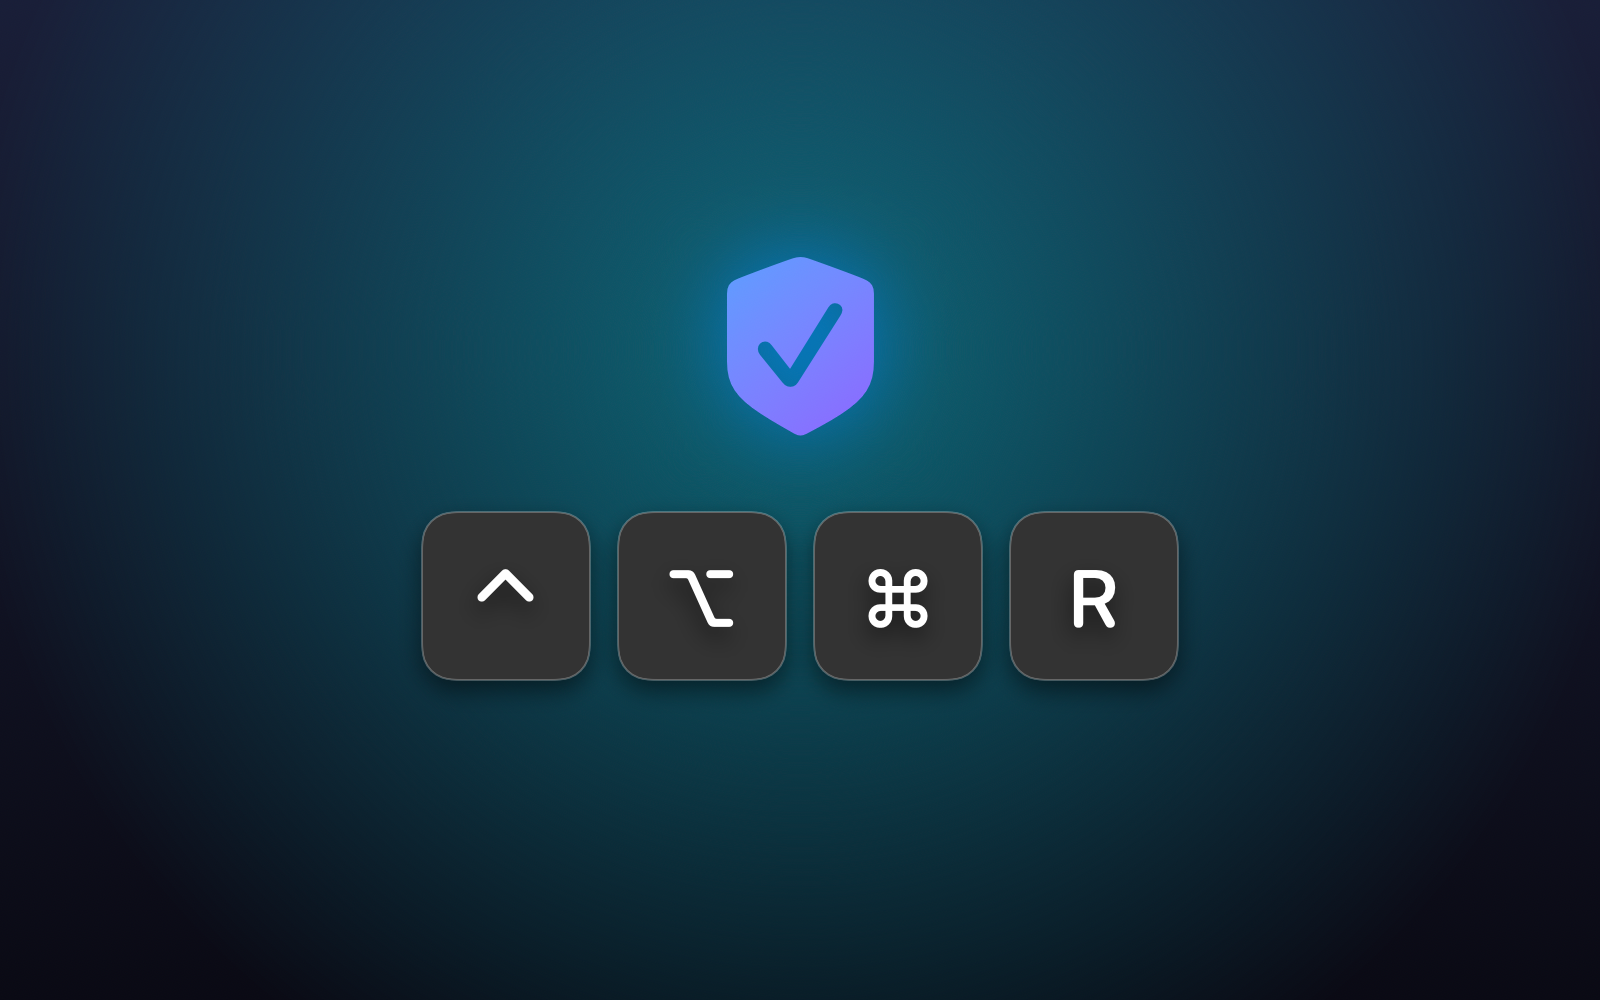
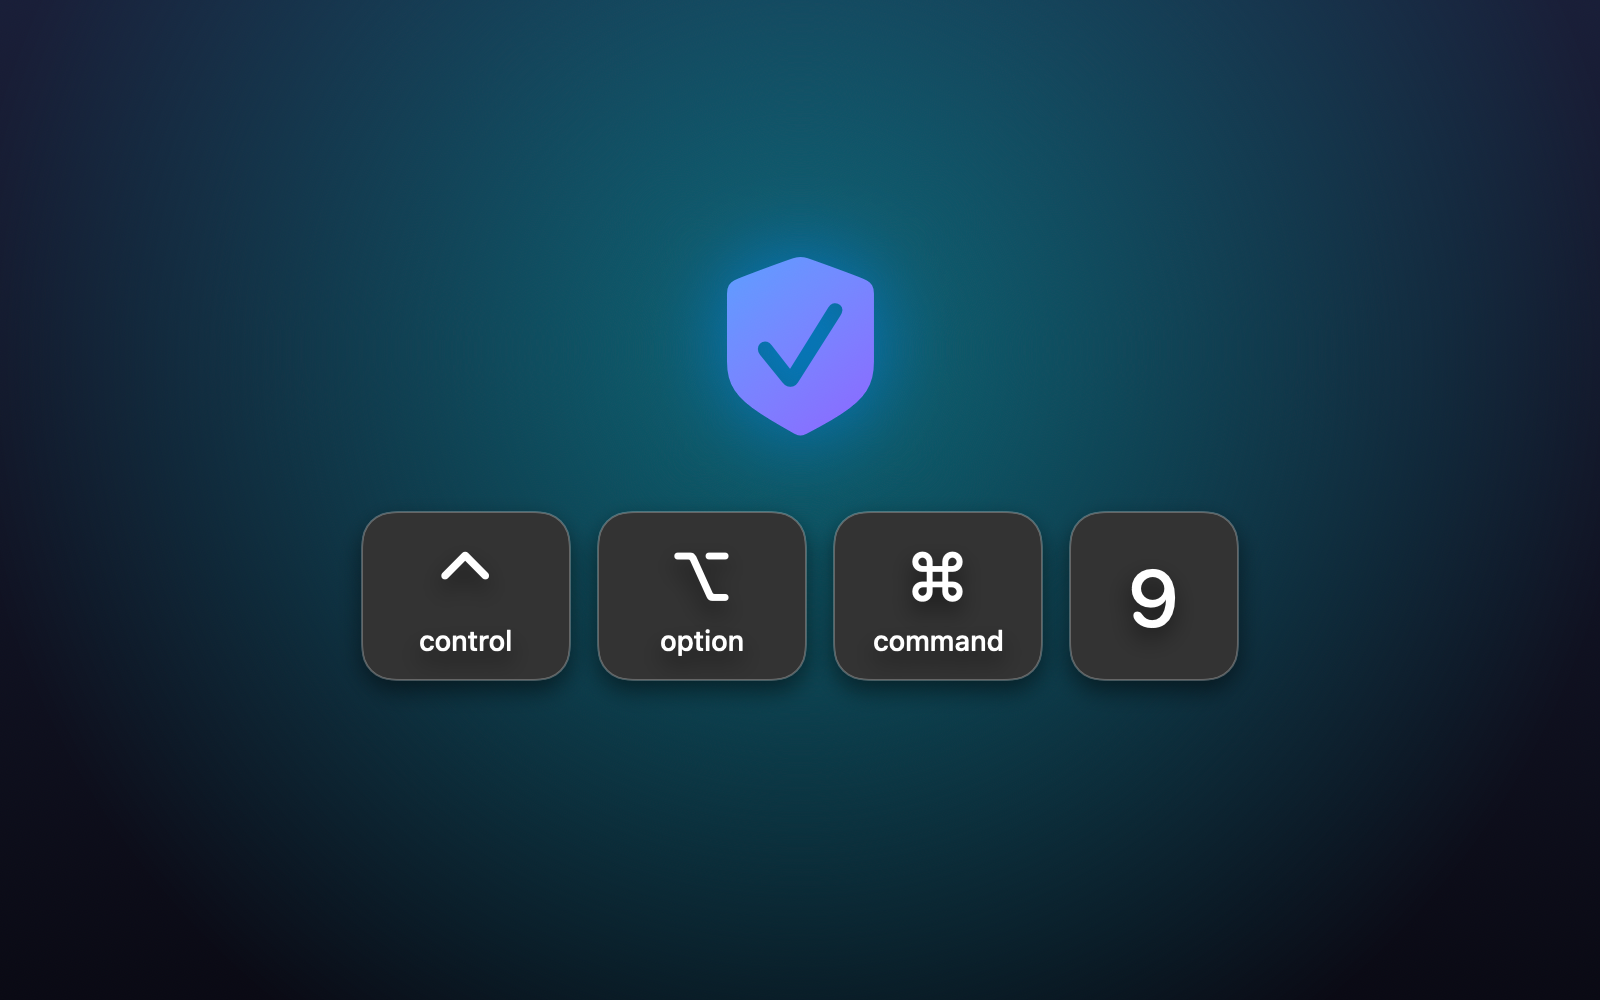
软件更名为 UU远程伴侣（UUyc companion）；兜底快捷键改为 ⌃ control + ⌥ option + ⌘ command + 9
需求：
1. 中文名改为「UU远程伴侣」，英文名改为「UUyc companion」
2. 恢复物理屏的快捷键改为 ⌃⌥⌘9，示意图只体现这 4 个键；界面上的快捷键说明都带英文键名，照顾新用户
实现：
- 打包为 UUyc companion.app，CFBundleName/DisplayName 为 UUyc companion，zh-Hans.lproj 本地化为「UU远程伴侣」；
  安装时删除旧的 /Applications/UUDisplay.app
- 界面中的「UU远程分辨率伴侣」「UUDisplay」统一改为「UU远程伴侣」；虚拟屏名称改为「UUyc companion · 设备名」
- 看门狗 LaunchAgent 加 AssociatedBundleIdentifiers，在「登录项与扩展」中归属到本 App 显示
- 内部标识不变：Bundle ID com.corndog.uudisplay（辅助功能授权据此识别）、可执行文件名、配置目录、日志文件名
- RegisterEventHotKey 改用 kVK_ANSI_9；兜底面板示意图改为四个键帽（带英文名）；菜单、提示、导览文案与配图同步
复现：scripts/build-app.sh --install 后，应用程序文件夹中为「UU远程伴侣」，辅助功能授权保留；
开启软关闭物理屏后按 ⌃⌥⌘9 立即恢复所有屏幕

Changed region(s): [[0.2188, 0.496, 0.7812, 0.682]]

diff --git a/Sources/UUDisplay/SettingsWindow.swift b/Sources/UUDisplay/SettingsWindow.swift
@@ -77,7 +77,7 @@ final class SettingsModel: ObservableObject {
         do {
             if on { try SMAppService.mainApp.register() } else { try SMAppService.mainApp.unregister() }
         } catch {
-            loginError = "设置失败：\(error.localizedDescription)。请把 UUDisplay.app 放在「应用程序」文件夹后再试。"
+            loginError = "设置失败：\(error.localizedDescription)。请把 UU远程伴侣 放在「应用程序」文件夹后再试。"
             Log.info("⚠ 开机启动设置失败：\(error.localizedDescription)")
         }
         launchAtLogin = SMAppService.mainApp.status == .enabled
@@ -113,7 +113,7 @@ final class SettingsModel: ObservableObject {
             attributes: [.font: NSFont.systemFont(ofSize: 11), .foregroundColor: NSColor.secondaryLabelColor])
         NSApp.activate(ignoringOtherApps: true)
         NSApp.orderFrontStandardAboutPanel(options: [
-            .applicationName: "UU远程分辨率伴侣",
+            .applicationName: "UU远程伴侣",
             .applicationVersion: version,
             .credits: credits,
         ])
@@ -127,69 +127,46 @@ final class SettingsModel: ObservableObject {
     }
 }
 
-// MARK: - 键盘示意图（Mac 键盘左半边，高亮 ⌃ ⌥ ⌘ R）
+// MARK: - 快捷键示意图（⌃ ⌥ ⌘ 9 四个键）
 
-private struct KeyCap: View {
-    let label: String
-    var sub: String? = nil
-    var width: CGFloat = 1
-    var height: CGFloat = 1
-    var highlighted = false
-    static let unit: CGFloat = 36
+private struct HotkeyCap: View {
+    let symbol: String
+    var name: String? = nil
 
     var body: some View {
-        RoundedRectangle(cornerRadius: 6)
-            .fill(highlighted ? Color.accentColor : Color(nsColor: .controlBackgroundColor))
-            .overlay(RoundedRectangle(cornerRadius: 6).stroke(Color.primary.opacity(highlighted ? 0 : 0.18), lineWidth: 1))
-            .shadow(color: .black.opacity(0.12), radius: 0.5, y: 1)
+        RoundedRectangle(cornerRadius: 10)
+            .fill(Color.accentColor)
+            .shadow(color: .black.opacity(0.18), radius: 1, y: 2)
             .overlay(
-                VStack(spacing: 1) {
-                    Text(label).font(.system(size: sub == nil ? 13 : 14, weight: highlighted ? .bold : .regular))
-                    if let sub { Text(sub).font(.system(size: 8.5)) }
+                VStack(spacing: 2) {
+                    Text(symbol).font(.system(size: name == nil ? 28 : 24, weight: .semibold))
+                    if let name { Text(name).font(.system(size: 11, weight: .medium)) }
                 }
-                .foregroundStyle(highlighted ? Color.white : Color.primary.opacity(0.75))
+                .foregroundStyle(.white)
             )
-            .frame(width: KeyCap.unit * width + 5 * (width - 1), height: KeyCap.unit * height)
+            .frame(width: name == nil ? 64 : 78, height: 64)
     }
 }
 
-struct KeyboardLeftHalfView: View {
-    private func row(_ keys: [(String, CGFloat)]) -> some View {
-        HStack(spacing: 5) { ForEach(Array(keys.enumerated()), id: \.offset) { KeyCap(label: $0.element.0, width: $0.element.1) } }
+struct HotkeyKeysView: View {
+    var body: some View {
+        HStack(spacing: 10) {
+            HotkeyCap(symbol: "⌃", name: "control")
+            plus
+            HotkeyCap(symbol: "⌥", name: "option")
+            plus
+            HotkeyCap(symbol: "⌘", name: "command")
+            plus
+            HotkeyCap(symbol: "9")
+        }
+        .padding(16)
+        .background(RoundedRectangle(cornerRadius: 12).fill(Color.primary.opacity(0.06)))
+        .accessibilityElement(children: .ignore)
+        .accessibilityLabel("快捷键示意图：同时按下 control、option、command 和 9")
     }
 
-    var body: some View {
-        VStack(alignment: .leading, spacing: 5) {
-            HStack(spacing: 5) {
-                KeyCap(label: "esc", width: 1.4, height: 0.6)
-                ForEach(1...5, id: \.self) { KeyCap(label: "F\($0)", height: 0.6) }
-            }
-            row([("`", 1), ("1", 1), ("2", 1), ("3", 1), ("4", 1), ("5", 1), ("6", 1)])
-            HStack(spacing: 5) {
-                KeyCap(label: "⇥", sub: "tab", width: 1.5)
-                ForEach(["Q", "W", "E"], id: \.self) { KeyCap(label: $0) }
-                KeyCap(label: "R", highlighted: true)
-                KeyCap(label: "T")
-            }
-            HStack(spacing: 5) {
-                KeyCap(label: "⇪", sub: "caps lock", width: 1.8)
-                ForEach(["A", "S", "D", "F", "G"], id: \.self) { KeyCap(label: $0) }
-            }
-            HStack(spacing: 5) {
-                KeyCap(label: "⇧", sub: "shift", width: 2.3)
-                ForEach(["Z", "X", "C", "V", "B"], id: \.self) { KeyCap(label: $0) }
-            }
-            HStack(spacing: 5) {
-                KeyCap(label: "fn")
-                KeyCap(label: "⌃", sub: "control", highlighted: true)
-                KeyCap(label: "⌥", sub: "option", highlighted: true)
-                KeyCap(label: "⌘", sub: "command", width: 1.3, highlighted: true)
-                KeyCap(label: "", width: 3)
-            }
-        }
-        .padding(12)
-        .background(RoundedRectangle(cornerRadius: 12).fill(Color.primary.opacity(0.06)))
-        .accessibilityLabel("键盘示意图：同时按下 control、option、command 和 R")
+    private var plus: some View {
+        Image(systemName: "plus").font(.system(size: 16, weight: .bold)).foregroundStyle(.secondary)
     }
 }
 
@@ -319,7 +296,7 @@ struct ControlledPanel: View {
     var body: some View {
         VStack(alignment: .leading, spacing: 18) {
             Text("设置被控制端").font(.title3.bold())
-            row("开机时启动 UUDisplay",
+            row("开机时启动 UU远程伴侣",
                 "登录 Mac 后自动在菜单栏运行，随时准备接收 UU 远程连入。",
                 isOn: Binding(get: { model.launchAtLogin }, set: { model.toggleLaunchAtLogin($0) }))
             if let err = model.loginError {
@@ -355,9 +332,9 @@ struct FallbackPanel: View {
             }
 
             Card(icon: "keyboard", title: "快捷键", tag: "始终可用") {
-                Text("坐在 Mac 前、屏幕黑着时，同时按下 **⌃ control + ⌥ option + ⌘ command + R**，立即恢复所有物理屏。虚拟屏保留，本次连接内不再关闭物理屏。")
+                Text("坐在 Mac 前、屏幕黑着时，同时按下 **⌃ control + ⌥ option + ⌘ command + 9**，立即恢复所有物理屏。虚拟屏保留，本次连接内不再关闭物理屏。")
                     .fixedSize(horizontal: false, vertical: true)
-                KeyboardLeftHalfView()
+                HotkeyKeysView()
                 Text("设置窗口和菜单栏里的「立即恢复所有屏幕」效果相同。")
                     .font(.callout).foregroundStyle(.secondary)
             }
@@ -366,8 +343,8 @@ struct FallbackPanel: View {
                 Text("一个独立的后台小程序，每秒检查一次。出现以下任一情况时，自动恢复物理屏：")
                     .fixedSize(horizontal: false, vertical: true)
                 VStack(alignment: .leading, spacing: 3) {
-                    Text("• UUDisplay 崩溃或被强制退出")
-                    Text("• UUDisplay 卡住超过 10 秒（会先结束它）")
+                    Text("• UU远程伴侣 崩溃或被强制退出")
+                    Text("• UU远程伴侣 卡住超过 10 秒（会先结束它）")
                     Text("• UU 远程已断开 5 秒，屏幕却还关着")
                 }
                 .font(.callout)
@@ -376,7 +353,7 @@ struct FallbackPanel: View {
 
                 Divider()
                 Text("需要的权限").font(.subheadline.bold())
-                Text("开启后，看门狗会安装为登录项（后台项目），macOS 会提示「已添加后台项目」。如果它在「系统设置 › 通用 › 登录项与扩展」中被关闭，需要打开 UUDisplay 的开关。它不需要辅助功能等其他权限。只有在这里开启时才会安装并加载到内存，关闭即卸载。")
+                Text("开启后，看门狗会安装为登录项（后台项目），macOS 会提示「已添加后台项目」。如果它在「系统设置 › 通用 › 登录项与扩展」中被关闭，需要打开 UU远程伴侣 的开关。它不需要辅助功能等其他权限。只有在这里开启时才会安装并加载到内存，关闭即卸载。")
                     .font(.callout).foregroundStyle(.secondary).fixedSize(horizontal: false, vertical: true)
 
                 HStack(spacing: 12) {
@@ -396,7 +373,7 @@ struct FallbackPanel: View {
             }
 
             if !model.watchdogEnabled {
-                Label("未开启看门狗时，如果 UUDisplay 意外退出，物理屏会保持关闭：重新打开 UUDisplay 或重启 Mac 即可恢复。",
+                Label("未开启看门狗时，如果 UU远程伴侣 意外退出，物理屏会保持关闭：重新打开 UU远程伴侣 或重启 Mac 即可恢复。",
                       systemImage: "info.circle")
                     .font(.callout).foregroundStyle(.secondary).fixedSize(horizontal: false, vertical: true)
             }
@@ -474,7 +451,7 @@ struct SettingsView: View {
                     Label("立即恢复所有屏幕", systemImage: "display.2")
                 }
                 .disabled(!model.physicalOff)
-                .help(model.physicalOff ? "等同快捷键 ⌃⌥⌘R" : "当前没有被关闭的物理屏")
+                .help(model.physicalOff ? "等同快捷键 ⌃ control + ⌥ option + ⌘ command + 9" : "当前没有被关闭的物理屏")
                 Button { model.openPermissions?() } label: { Label("权限设置", systemImage: "hand.raised") }
                 Button { model.openTour?() } label: { Label("功能导览", systemImage: "sparkles") }
             }
@@ -488,7 +465,7 @@ struct SettingsView: View {
                 Spacer()
                 Button("关于本应用") { model.showAbout() }
                 Button("完全退出", role: .destructive) { model.quitCompletely() }
-                    .help("退出 UUDisplay，并停止本次登录中的看门狗")
+                    .help("退出 UU远程伴侣，并停止本次登录中的看门狗")
             }
             .padding(.horizontal, 20)
             .padding(.vertical, 14)
@@ -532,7 +509,7 @@ final class SettingsWindowController {
         hosting.sizingOptions = [.preferredContentSize]
         let w = NSWindow(contentViewController: hosting)
         w.styleMask = [.titled, .closable, .miniaturizable]
-        w.title = "UU远程分辨率伴侣 设置"
+        w.title = "UU远程伴侣 设置"
         w.isReleasedWhenClosed = false
         w.setContentSize(hosting.view.fittingSize)  // 先定好尺寸再居中，否则按 0×0 居中会偏到右侧
         w.center()

diff --git a/Sources/UUDisplay/Tour.swift b/Sources/UUDisplay/Tour.swift
@@ -6,14 +6,14 @@ import TourKit
 
 enum Tour {
     static let pages: [(image: String, title: LocalizedStringKey, description: LocalizedStringKey)] = [
-        ("tour-welcome", "欢迎使用 UU远程分辨率伴侣",
+        ("tour-welcome", "欢迎使用 UU远程伴侣",
          "用平板或手机通过 UU远程 控制这台 Mac 时，自动准备一块分辨率与它完全一致的屏幕。"),
         ("tour-match", "连入即切换，铺满无黑边",
          "识别连进来的设备，几秒内建好对应分辨率的虚拟屏并设为主屏，文字清晰；断开后自动还原。"),
         ("tour-physical", "远程时只留一块屏",
          "可在设置中开启：远程期间关闭 DELL、内建屏等物理屏，窗口不会跑到看不见的地方。电脑连入时不做任何改动。"),
         ("tour-safety", "多重兜底，随时恢复",
-         "在 Mac 键盘上按 ⌃⌥⌘R 立即点亮所有屏幕；可选开启后台看门狗自动守护；重启也一定恢复。"),
+         "在 Mac 键盘上按 ⌃ control + ⌥ option + ⌘ command + 9 立即点亮所有屏幕；可选开启后台看门狗自动守护；重启也一定恢复。"),
         ("tour-setup", "还差两步设置",
          "授予辅助功能权限，再确认各设备的分辨率。之后随时可从菜单栏图标重新配置或再看导览。"),
     ]
@@ -246,11 +246,15 @@ private struct PhysicalArt: View {
 
 private struct KeyCap: View {
     let label: String
+    /// 修饰键的英文名（照顾不熟悉符号的新用户）
+    var name: String? = nil
     var body: some View {
-        Text(label)
-            .font(.system(size: 40, weight: .medium, design: .rounded))
+        VStack(spacing: 4) {
+            Text(label).font(.system(size: name == nil ? 40 : 34, weight: .medium, design: .rounded))
+            if let name { Text(name).font(.system(size: 14, weight: .medium)) }
+        }
             .foregroundStyle(.white)
-            .frame(width: 84, height: 84)
+            .frame(width: name == nil ? 84 : 104, height: 84)
             .background(RoundedRectangle(cornerRadius: 16, style: .continuous).fill(Color(white: 0.20)))
             .overlay(RoundedRectangle(cornerRadius: 16, style: .continuous).stroke(Color.white.opacity(0.25), lineWidth: 1))
             .shadow(color: .black.opacity(0.5), radius: 6, y: 5)
@@ -266,10 +270,10 @@ private struct SafetyArt: View {
                     .foregroundStyle(accent)
                     .shadow(color: .blue.opacity(0.6), radius: 20)
                 HStack(spacing: 14) {
-                    KeyCap(label: "⌃")
-                    KeyCap(label: "⌥")
-                    KeyCap(label: "⌘")
-                    KeyCap(label: "R")
+                    KeyCap(label: "⌃", name: "control")
+                    KeyCap(label: "⌥", name: "option")
+                    KeyCap(label: "⌘", name: "command")
+                    KeyCap(label: "9")
                 }
             }
         }

diff --git a/Sources/UUDisplay/main.swift b/Sources/UUDisplay/main.swift
@@ -1,4 +1,4 @@
-// UU远程分辨率伴侣：本机被 UU远程 控制时，按控制端设备自动建虚拟屏并设为主屏，断开后还原
+// UU远程伴侣：本机被 UU远程 控制时，按控制端设备自动建虚拟屏并设为主屏，断开后还原
 // 调试：UUDisplay --simulate "<设备名>" [秒数=10]  模拟一次连入/断开（不依赖 UU）
 //      UUDisplay --simulate "A>B" 8            先按 A 建屏，3 秒后识别为 B 重建
 //      UUDisplay --render-settings <目录>       渲染设置窗口各面板为 PNG
@@ -166,7 +166,7 @@ final class AppDelegate: NSObject, NSApplicationDelegate {
         }
     }
 
-    /// 全局快捷键 ⌃⌥⌘R：立即恢复物理屏（Carbon 热键，无需任何权限）
+    /// 全局快捷键 ⌃⌥⌘9：立即恢复物理屏（Carbon 热键，无需任何权限）
     private func installHotkey() {
         var spec = EventTypeSpec(eventClass: OSType(kEventClassKeyboard), eventKind: UInt32(kEventHotKeyPressed))
         let me = Unmanaged.passUnretained(self).toOpaque()
@@ -177,9 +177,9 @@ final class AppDelegate: NSObject, NSApplicationDelegate {
             return noErr
         }, 1, &spec, me, nil)
         let id = EventHotKeyID(signature: OSType(0x5555_4453), id: 1)  // 'UUDS'
-        let err = RegisterEventHotKey(UInt32(kVK_ANSI_R), UInt32(cmdKey | optionKey | controlKey), id,
+        let err = RegisterEventHotKey(UInt32(kVK_ANSI_9), UInt32(cmdKey | optionKey | controlKey), id,
                                       GetApplicationEventTarget(), 0, &hotKeyRef)
-        Log.info(err == noErr ? "已注册快捷键 ⌃⌥⌘R" : "⚠ 快捷键 ⌃⌥⌘R 注册失败 \(err)")
+        Log.info(err == noErr ? "已注册快捷键 ⌃⌥⌘9" : "⚠ 快捷键 ⌃⌥⌘9 注册失败 \(err)")
     }
 
     /// 压测：随机连入/换设备/断开，间隔 0.3–6 秒，制造上一轮未收尾就进入下一轮的情况

diff --git a/Sources/UUDisplay/StatusBarController.swift b/Sources/UUDisplay/StatusBarController.swift
@@ -26,8 +26,8 @@ final class StatusBarController: NSObject, NSMenuDelegate {
     func refresh() {
         let active = coordinator.display.isActive
         let symbol = store.config.paused ? "pause.rectangle" : (active ? "ipad.landscape" : "rectangle.on.rectangle")
-        item.button?.image = NSImage(systemSymbolName: symbol, accessibilityDescription: "UU远程分辨率伴侣")
-        item.button?.toolTip = "UU远程分辨率伴侣：\(coordinator.statusText)"
+        item.button?.image = NSImage(systemSymbolName: symbol, accessibilityDescription: "UU远程伴侣")
+        item.button?.toolTip = "UU远程伴侣：\(coordinator.statusText)"
     }
 
     func menuNeedsUpdate(_ menu: NSMenu) {
@@ -47,7 +47,7 @@ final class StatusBarController: NSObject, NSMenuDelegate {
         }
         menu.addItem(.separator())
 
-        let restore = action("立即恢复所有屏幕（⌃⌥⌘R）", #selector(restorePhysical))
+        let restore = action("立即恢复所有屏幕（⌃ control + ⌥ option + ⌘ command + 9）", #selector(restorePhysical))
         restore.isEnabled = coordinator.display.physicalOff || PhysicalDisplays.pending != nil
         menu.addItem(restore)
         let physical = action("远程时关闭物理屏", #selector(toggleDisablePhysical))
@@ -126,7 +126,7 @@ final class StatusBarController: NSObject, NSMenuDelegate {
             Log.info("⚠ 开机自启设置失败：\(error.localizedDescription)")
             let alert = NSAlert()
             alert.messageText = "开机自启设置失败"
-            alert.informativeText = "\(error.localizedDescription)\n请把 UUDisplay.app 放到「应用程序」文件夹后再试。"
+            alert.informativeText = "\(error.localizedDescription)\n请把 UU远程伴侣 放到「应用程序」文件夹后再试。"
             alert.runModal()
         }
     }

diff --git a/Sources/UUDisplay/PermissionsWindow.swift b/Sources/UUDisplay/PermissionsWindow.swift
@@ -88,7 +88,7 @@ struct PermissionsView: View {
     var body: some View {
         VStack(alignment: .leading, spacing: 16) {
             VStack(alignment: .leading, spacing: 4) {
-                Text("授权 UU远程分辨率伴侣").font(.title2.bold())
+                Text("授权 UU远程伴侣").font(.title2.bold())
                 Text("完成下面的授权后，平板或手机连入时才能自动识别设备并切换分辨率。")
                     .foregroundStyle(.secondary)
             }
@@ -103,7 +103,7 @@ struct PermissionsView: View {
                 ok: model.axGranted,
                 okText: "已授权",
                 pendingText: "未授权",
-                tip: "点「授权」会打开系统设置，并在旁边出现一个小面板，把面板里的 UUDisplay 拖进列表即可。\n如果列表里已有 UUDisplay 却仍显示未授权（旧版签名留下的记录）：先选中它点「−」删除，再重新拖入。"
+                tip: "点「授权」会打开系统设置，并在旁边出现一个小面板，把面板里的 UU远程伴侣 拖进列表即可。\n如果列表里已有 UU远程伴侣 或 UUDisplay（旧版名称）却仍显示未授权：先选中它点「−」删除，再重新拖入。"
             ) {
                 PermissionFlowButton(
                     pane: .accessibility,

diff --git a/Sources/UUDisplay/Coordinator.swift b/Sources/UUDisplay/Coordinator.swift
@@ -29,7 +29,7 @@ final class Coordinator {
         monitor.start()
     }
 
-    /// 开关打开且私有 API 可用时关闭物理屏；看门狗是可选兜底（快捷键 ⌃⌥⌘R 始终可用）
+    /// 开关打开且私有 API 可用时关闭物理屏；看门狗是可选兜底（快捷键 ⌃⌥⌘9 始终可用）
     var physicalDisableAllowed: Bool {
         store.config.shouldDisablePhysical && PhysicalDisplays.available
     }
@@ -157,7 +157,7 @@ final class Coordinator {
         onChange?()
     }
 
-    /// 快捷键 ⌃⌥⌘R / 菜单：立即恢复物理屏
+    /// 快捷键 ⌃⌥⌘9 / 菜单：立即恢复物理屏
     func restorePhysical() {
         Log.info("手动恢复物理屏")
         display.restorePhysicalNow()

diff --git a/Sources/UUDisplay/DisplayManager.swift b/Sources/UUDisplay/DisplayManager.swift
@@ -274,7 +274,7 @@ final class DisplayManager {
     private func createDisplay(_ cfg: DeviceConfig) -> Bool {
         let w = cfg.width, h = cfg.height
         let desc = CGVirtualDisplayDescriptor()
-        desc.name = "UUDisplay · \(cfg.name)"
+        desc.name = "UUyc companion · \(cfg.name)"  // 显示在 UU 的多显示屏列表、系统显示器设置中
         desc.maxPixelsWide = UInt32(w)
         desc.maxPixelsHigh = UInt32(h)
         desc.sizeInMillimeters = CGSize(width: Double(w) / 220 * 25.4, height: Double(h) / 220 * 25.4)

diff --git a/Sources/UUDisplay/Watchdog.swift b/Sources/UUDisplay/Watchdog.swift
@@ -99,6 +99,8 @@ enum WatchdogAgent {
             "RunAtLoad": true,
             "ProcessType": "Interactive",
             "LimitLoadToSessionType": "Aqua",
+            // 让「登录项与扩展」把它显示为本 App（名称、图标），而不是一个陌生的可执行文件
+            "AssociatedBundleIdentifiers": [Bundle.main.bundleIdentifier ?? "com.corndog.uudisplay"],
         ]
         return (try? PropertyListSerialization.data(fromPropertyList: dict, format: .xml, options: 0)) ?? Data()
     }

diff --git a/Sources/UUDisplay/SetupWizard.swift b/Sources/UUDisplay/SetupWizard.swift
@@ -106,7 +106,7 @@ struct WizardView: View {
 
     var body: some View {
         VStack(alignment: .leading, spacing: 14) {
-            Text(embedded ? "设备配置" : "UU远程分辨率伴侣 · 设备配置").font(.title2.bold())
+            Text(embedded ? "设备配置" : "UU远程伴侣 · 设备配置").font(.title2.bold())
             if let m = model.message { Text(m).foregroundStyle(.secondary) }
             if !model.trusted {
                 HStack {
